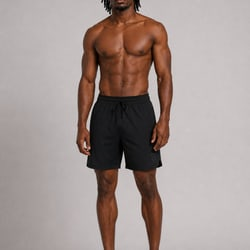
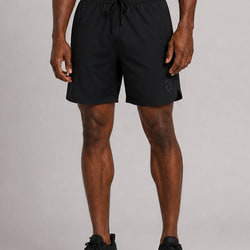
Men's Shorts + Training Pants: waist-down crops are the covers, full front shot on hover
New shorts-m-crop.jpg / training-pants-m-crop.jpg (bottom ~65% of the front
shot, same 3:4 shape) lead each gallery and the Shop All cards; the full
front follows and is the card hover. Share images rebuilt; app synced.

diff --git a/product.html b/product.html
@@ -340,8 +340,8 @@ const PRODUCTS={
   'tshirt-w':{name:"Women's T-Shirt",gender:"Women's",price:'KES 4,200',priceVal:4200,image:'images/tshirt-w.jpg',images:['images/tshirt-w.jpg','images/tshirt-w-front-angle.jpg','images/tshirt-w-back.jpg','images/tshirt-w-detail.jpg','images/tshirt-w-movement.jpg'],sizes:['S','M','L','XL','XXL'],desc:"A clean training tee built for movement. Lightweight moisture-wicking fabric, a relaxed fit that stays in place, and a full-length hem. Wear it to the gym, on a run, or straight after.",details:['Moisture-wicking fabric','Relaxed fit, full length','Crew neck','Flatlock shoulder seams','Fabric: 89% Polyester, 11% Elastane']},
   'tshirt-m':{name:"Men's T-Shirt",gender:"Men's",price:'KES 4,200',priceVal:4200,image:'images/tshirt-m.jpg',images:['images/tshirt-m.jpg','images/tshirt-m-side.jpg','images/tshirt-m-back.jpg'],sizes:['S','M','L','XL','XXL'],desc:"A training tee that does its job without getting in the way. Sweat-wicking fabric, a clean regular fit, and a slightly dropped hem. Equally at home in the gym or on the way there.",details:['Moisture-wicking fabric','Regular fit with dropped hem','Crew neck','Flatlock shoulder seams','Fabric: 89% Polyester, 11% Elastane']},
   'quarter-zip-m':{name:"Men's Quarter Zip",gender:"Men's",price:'KES 5,600',priceVal:5600,image:'images/quarter-zip-m.jpg',images:['images/quarter-zip-m.jpg','images/quarter-zip-m-front.jpg','images/quarter-zip-m-side.jpg','images/quarter-zip-m-seated.jpg'],sizes:['S','M','L','XL','XXL'],desc:"The warm-up layer you'll reach for every session. Quarter-zip collar, flatlock seams, and a clean minimal aesthetic. Lightweight enough to keep on during training.",details:['Quarter-zip collar','Flatlock seam construction','Regular straight fit','Moisture-wicking fabric','Fabric: 83% Polyester, 17% Elastane']},
-  'shorts-m':{name:"Men's Shorts",gender:"Men's",price:'KES 6,050',priceVal:6050,image:'images/shorts-m.jpg',images:['images/shorts-m.jpg','images/shorts-m-side.jpg','images/shorts-m-back.jpg'],sizes:['S','M','L','XL','XXL'],desc:"Lightweight training shorts with an internal compression liner. Elastic waistband with drawcord. Side slit hem for full range of movement. Rear zip pocket.",details:['Internal compression liner','Elastic waistband with drawcord','Side slit hem','Rear zip pocket','Quick-dry fabric','Fabric: Outer Body: 92% Polyester, 8% Elastane / Outer Insert Fabric: 88% Polyester, 12% Elastane / Inner Layer Fabric: 88% Polyamide, 12% Elastane']},
-  'training-pants-m':{name:"Training Pants",gender:"Men's",price:'KES 6,600',priceVal:6600,image:'images/training-pants-m.jpg',images:['images/training-pants-m.jpg','images/training-pants-m-side.jpg','images/training-pants-m-back.jpg'],sizes:['S','M','L','XL','XXL'],desc:"Full-length training pants built for early mornings and cool weather. Tapered fit, ankle zips for easy on/off, and a secure waistband.",details:['Tapered running fit','Ankle zip cuffs','Elastic waistband with drawcord','Two zip side pockets','Fabric: Main Fabric: 75% Polyamide, 25% Elastane / Insert Fabric: 88% Polyester, 12% Elastane']},
+  'shorts-m':{name:"Men's Shorts",gender:"Men's",price:'KES 6,050',priceVal:6050,image:'images/shorts-m-crop.jpg',images:['images/shorts-m-crop.jpg','images/shorts-m.jpg','images/shorts-m-side.jpg','images/shorts-m-back.jpg'],sizes:['S','M','L','XL','XXL'],desc:"Lightweight training shorts with an internal compression liner. Elastic waistband with drawcord. Side slit hem for full range of movement. Rear zip pocket.",details:['Internal compression liner','Elastic waistband with drawcord','Side slit hem','Rear zip pocket','Quick-dry fabric','Fabric: Outer Body: 92% Polyester, 8% Elastane / Outer Insert Fabric: 88% Polyester, 12% Elastane / Inner Layer Fabric: 88% Polyamide, 12% Elastane']},
+  'training-pants-m':{name:"Training Pants",gender:"Men's",price:'KES 6,600',priceVal:6600,image:'images/training-pants-m-crop.jpg',images:['images/training-pants-m-crop.jpg','images/training-pants-m.jpg','images/training-pants-m-side.jpg','images/training-pants-m-back.jpg'],sizes:['S','M','L','XL','XXL'],desc:"Full-length training pants built for early mornings and cool weather. Tapered fit, ankle zips for easy on/off, and a secure waistband.",details:['Tapered running fit','Ankle zip cuffs','Elastic waistband with drawcord','Two zip side pockets','Fabric: Main Fabric: 75% Polyamide, 25% Elastane / Insert Fabric: 88% Polyester, 12% Elastane']},
   'ankle-socks':{name:'Ankle Socks',gender:'Unisex',price:'KES 550',priceVal:550,image:'images/ankle-socks.jpg',sizes:['S/M','L/XL'],colour:'White',swatchHex:'#f5f5f5',swatchBorder:'#e5e7eb',desc:"Unisex low-cut ankle socks that stay in place through any session. Cushioned toe box and a breathable cotton-blend knit.",care:"Warm machine wash at a maximum of 40°C. Wash and dry inside out. Wash dark colours separately. Do not bleach. Warm tumble dry. Dry without delay.",careIcons:['wash-40','no-bleach','no-iron','no-dry-clean'],details:['Ankle-cut low profile','Cushioned toe box','Breathable cotton-blend knit','Fabric: 75% Cotton, 21% Polyamide, 4% Elastane']},
   'lifestyle-cap':{name:'Lifestyle Cap',gender:'Unisex',price:'KES 3,000',priceVal:3000,image:'images/lifestyle-cap.jpg',images:['images/lifestyle-cap.jpg','images/lifestyle-cap-side.jpg','images/lifestyle-cap-back.jpg'],sizes:['One Size'],care:"Hand wash at a maximum of 40°C. Do not bleach. Hang to dry in shade. Do not iron. Do not dry clean.",careIcons:['hand-wash','no-bleach','no-iron','no-dry-clean'],desc:"A clean, unisex 5-panel cap with an embroidered REVAÍ logo. Adjustable back strap. Structured front panel. Suited to training and everyday wear.",details:['5-panel construction','Embroidered REVAÍ logo','Structured front panel','Adjustable back strap','One Size','Fabric: 100% Cotton']},
   'gym-bag':{name:'Gym Bag',gender:'Unisex',price:'KES 7,500',priceVal:7500,image:'images/gym-bag.jpg',sizes:['One Size'],care:"Wipe clean with a damp cloth to clean the surface. Do not bleach.",careIcons:['no-wash','no-bleach','no-tumble-dry','no-iron','no-dry-clean'],desc:"A structured, unisex gym bag built for daily use. Separate wet/dry compartment and external water bottle pocket. Padded shoulder strap and top carry handle.",details:['30L capacity','Separate wet/dry compartment','External water bottle pocket','Padded shoulder strap & carry handle','REVAÍ embossed logo','Fabric: 100% Polyester']}

diff --git a/collections.html b/collections.html
@@ -295,8 +295,8 @@
       <!-- Shorts M -->
       <div class="prod-card fu d2" data-gender="men">
         <div class="relative" style="aspect-ratio:3/4;overflow:hidden;background:#f3f4f6;">
-          <img loading="lazy" decoding="async" src="images/shorts-m.jpg" alt="Men's Shorts" style="width:100%;height:100%;object-fit:cover;object-position:center;display:block;">
-          <img src="images/shorts-m-side.jpg" alt="" aria-hidden="true" class="card-hover-img" loading="lazy" decoding="async">
+          <img loading="lazy" decoding="async" src="images/shorts-m-crop.jpg" alt="Men's Shorts" style="width:100%;height:100%;object-fit:cover;object-position:center;display:block;">
+          <img src="images/shorts-m.jpg" alt="" aria-hidden="true" class="card-hover-img" loading="lazy" decoding="async">
           <button class="add-btn" onclick="addToBag('shorts-m','Men\'s Shorts',6050)">Add to Bag</button>
         </div>
         <div class="p-4">
@@ -314,8 +314,8 @@
       <!-- Training Pants M -->
       <div class="prod-card fu d3" data-gender="men">
         <div class="relative" style="aspect-ratio:3/4;overflow:hidden;background:#f3f4f6;">
-          <img loading="lazy" decoding="async" src="images/training-pants-m.jpg" alt="Training Pants" style="width:100%;height:100%;object-fit:cover;object-position:center;display:block;">
-          <img src="images/training-pants-m-side.jpg" alt="" aria-hidden="true" class="card-hover-img" loading="lazy" decoding="async">
+          <img loading="lazy" decoding="async" src="images/training-pants-m-crop.jpg" alt="Training Pants" style="width:100%;height:100%;object-fit:cover;object-position:center;display:block;">
+          <img src="images/training-pants-m.jpg" alt="" aria-hidden="true" class="card-hover-img" loading="lazy" decoding="async">
           <button class="add-btn" onclick="addToBag('training-pants-m','Training Pants',6600)">Add to Bag</button>
         </div>
         <div class="p-4">
